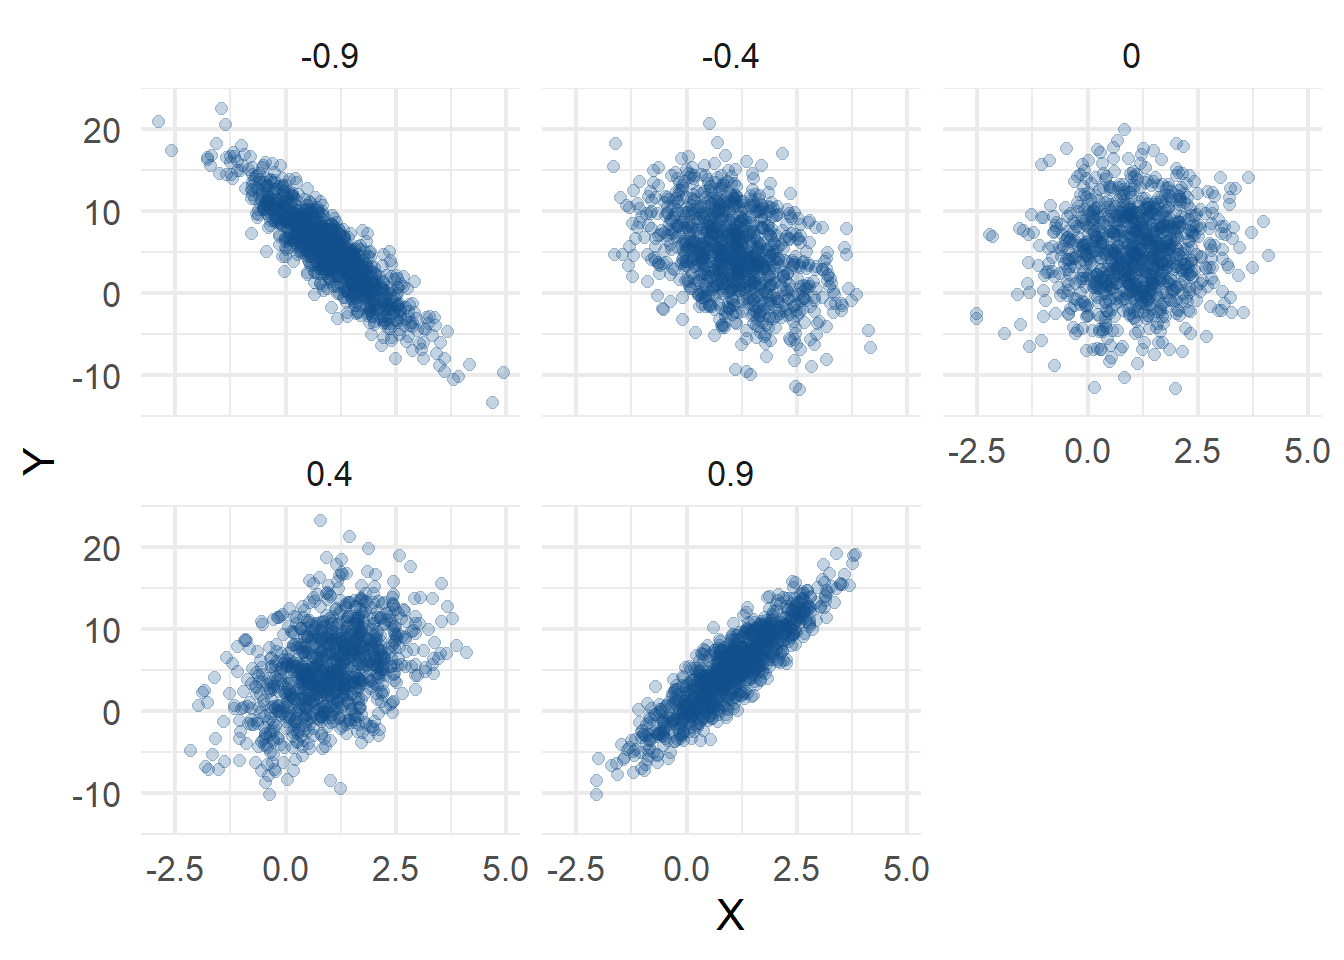
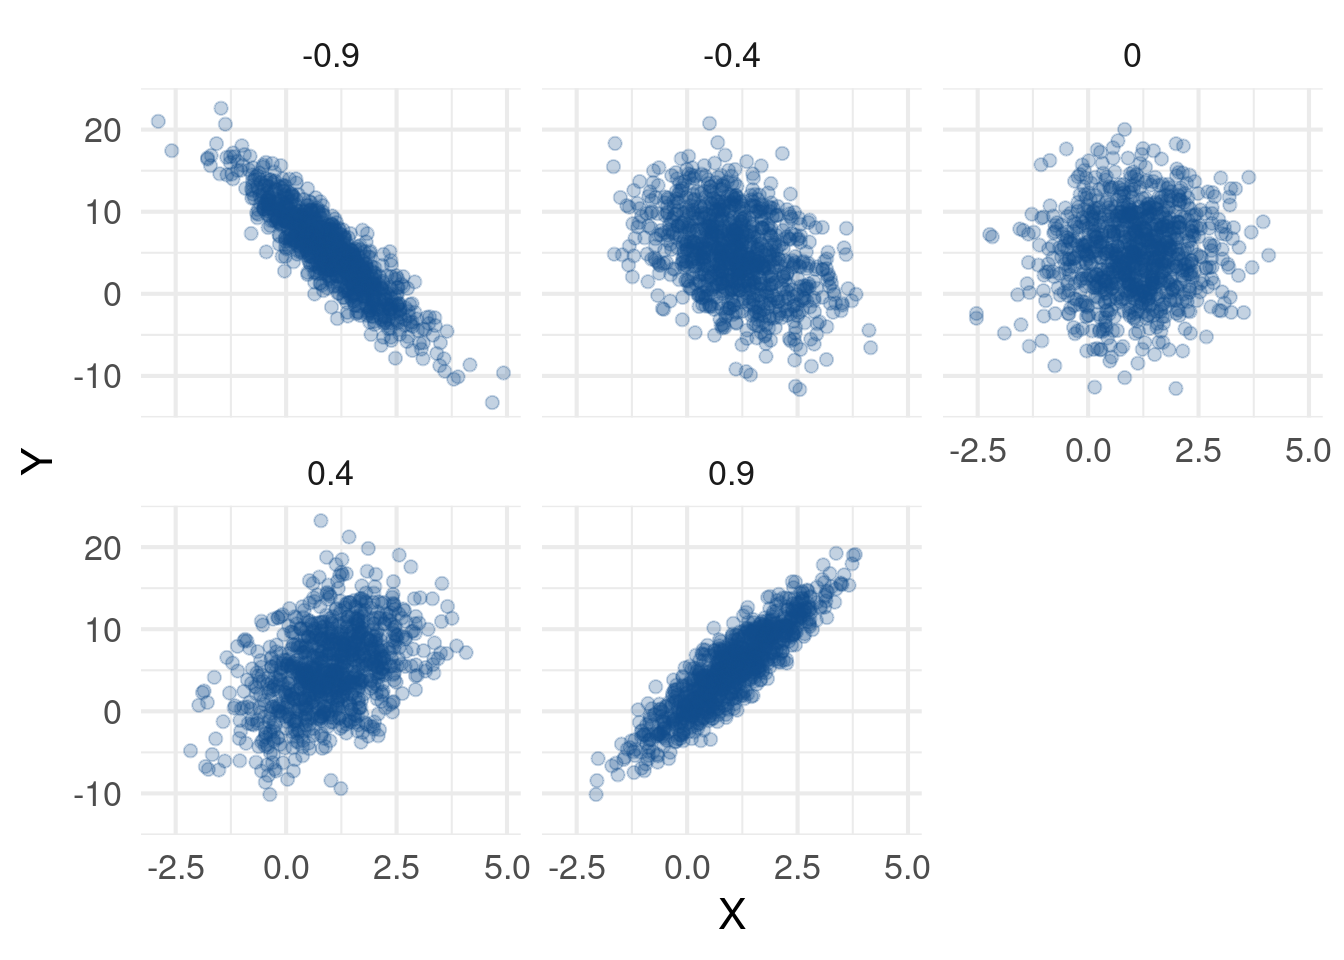
Update Lsg Blatt 8

diff --git a/wr/lsg/08_R.html b/wr/lsg/08_R.html
@@ -2,7 +2,7 @@
 <html xmlns="http://www.w3.org/1999/xhtml" lang="de" xml:lang="de"><head>
 
 <meta charset="utf-8">
-<meta name="generator" content="quarto-1.2.253">
+<meta name="generator" content="quarto-1.2.313">
 
 <meta name="viewport" content="width=device-width, initial-scale=1.0, user-scalable=yes">
 
@@ -139,7 +139,7 @@ code span.wa { color: #60a0b0; font-weight: bold; font-style: italic; } /* Warni
     <div>
     <div class="quarto-title-meta-heading">Veröffentlichungsdatum</div>
     <div class="quarto-title-meta-contents">
-      <p class="date">8. Dezember 2022</p>
+      <p class="date">4. Februar 2023</p>
     </div>
   </div>
   
@@ -157,30 +157,37 @@ code span.wa { color: #60a0b0; font-weight: bold; font-style: italic; } /* Warni
 \end{pmatrix}
 \]</span> ausgibt.</p>
 <div class="cell">
-
+<div class="sourceCode cell-code" id="cb1"><pre class="sourceCode r code-with-copy"><code class="sourceCode r"><span id="cb1-1"><a href="#cb1-1" aria-hidden="true" tabindex="-1"></a>my_cov_matrix <span class="ot">&lt;-</span> <span class="cf">function</span>(sigma_1, sigma_2, rho) {</span>
+<span id="cb1-2"><a href="#cb1-2" aria-hidden="true" tabindex="-1"></a>  entries <span class="ot">&lt;-</span> <span class="fu">c</span>(</span>
+<span id="cb1-3"><a href="#cb1-3" aria-hidden="true" tabindex="-1"></a>    sigma_1<span class="sc">^</span><span class="dv">2</span>, rho <span class="sc">*</span> sigma_1 <span class="sc">*</span> sigma_2,</span>
+<span id="cb1-4"><a href="#cb1-4" aria-hidden="true" tabindex="-1"></a>    rho <span class="sc">*</span> sigma_1 <span class="sc">*</span> sigma_2, sigma_2<span class="sc">^</span><span class="dv">2</span></span>
+<span id="cb1-5"><a href="#cb1-5" aria-hidden="true" tabindex="-1"></a>  )</span>
+<span id="cb1-6"><a href="#cb1-6" aria-hidden="true" tabindex="-1"></a>  <span class="fu">matrix</span>(entries, <span class="at">nrow =</span> <span class="dv">2</span>)</span>
+<span id="cb1-7"><a href="#cb1-7" aria-hidden="true" tabindex="-1"></a>}</span>
+<span id="cb1-8"><a href="#cb1-8" aria-hidden="true" tabindex="-1"></a><span class="fu">set.seed</span>(<span class="dv">35434</span>)</span></code><button title="In die Zwischenablage kopieren" class="code-copy-button"><i class="bi"></i></button></pre></div>
 </div>
 <section id="zugriff-auf-matrixkomponenten" class="level2">
 <h2 class="anchored" data-anchor-id="zugriff-auf-matrixkomponenten">Zugriff auf Matrixkomponenten</h2>
 <p>Wir können auf Einträge in Matrizen durch Angabe des Zeilen- und Spaltenindex zugreifen.</p>
 <div class="cell">
-<div class="sourceCode cell-code" id="cb1"><pre class="sourceCode r code-with-copy"><code class="sourceCode r"><span id="cb1-1"><a href="#cb1-1" aria-hidden="true" tabindex="-1"></a>K <span class="ot">&lt;-</span> <span class="fu">my_cov_matrix</span>(<span class="dv">1</span>, <span class="dv">2</span>, <span class="fl">0.2</span>)</span>
-<span id="cb1-2"><a href="#cb1-2" aria-hidden="true" tabindex="-1"></a>K</span></code><button title="In die Zwischenablage kopieren" class="code-copy-button"><i class="bi"></i></button></pre></div>
+<div class="sourceCode cell-code" id="cb2"><pre class="sourceCode r code-with-copy"><code class="sourceCode r"><span id="cb2-1"><a href="#cb2-1" aria-hidden="true" tabindex="-1"></a>K <span class="ot">&lt;-</span> <span class="fu">my_cov_matrix</span>(<span class="dv">1</span>, <span class="dv">2</span>, <span class="fl">0.2</span>)</span>
+<span id="cb2-2"><a href="#cb2-2" aria-hidden="true" tabindex="-1"></a>K</span></code><button title="In die Zwischenablage kopieren" class="code-copy-button"><i class="bi"></i></button></pre></div>
 <div class="cell-output cell-output-stdout">
 <pre><code>     [,1] [,2]
 [1,]  1.0  0.4
 [2,]  0.4  4.0</code></pre>
 </div>
-<div class="sourceCode cell-code" id="cb3"><pre class="sourceCode r code-with-copy"><code class="sourceCode r"><span id="cb3-1"><a href="#cb3-1" aria-hidden="true" tabindex="-1"></a>K[<span class="dv">1</span>, <span class="dv">2</span>]</span></code><button title="In die Zwischenablage kopieren" class="code-copy-button"><i class="bi"></i></button></pre></div>
+<div class="sourceCode cell-code" id="cb4"><pre class="sourceCode r code-with-copy"><code class="sourceCode r"><span id="cb4-1"><a href="#cb4-1" aria-hidden="true" tabindex="-1"></a>K[<span class="dv">1</span>, <span class="dv">2</span>]</span></code><button title="In die Zwischenablage kopieren" class="code-copy-button"><i class="bi"></i></button></pre></div>
 <div class="cell-output cell-output-stdout">
 <pre><code>[1] 0.4</code></pre>
 </div>
 </div>
 <p>Wir können aber auch auf ganze Zeilen und Spalten extrahieren, indem wir den Zeilen- oder Spaltenindex <strong>nicht</strong> angeben.</p>
 <div class="cell">
-<div class="sourceCode cell-code" id="cb5"><pre class="sourceCode r code-with-copy"><code class="sourceCode r"><span id="cb5-1"><a href="#cb5-1" aria-hidden="true" tabindex="-1"></a>K[, <span class="dv">1</span>]</span>
-<span id="cb5-2"><a href="#cb5-2" aria-hidden="true" tabindex="-1"></a><span class="do">## [1] 1.0 0.4</span></span>
-<span id="cb5-3"><a href="#cb5-3" aria-hidden="true" tabindex="-1"></a>K[<span class="dv">2</span>, ]</span>
-<span id="cb5-4"><a href="#cb5-4" aria-hidden="true" tabindex="-1"></a><span class="do">## [1] 0.4 4.0</span></span></code><button title="In die Zwischenablage kopieren" class="code-copy-button"><i class="bi"></i></button></pre></div>
+<div class="sourceCode cell-code" id="cb6"><pre class="sourceCode r code-with-copy"><code class="sourceCode r"><span id="cb6-1"><a href="#cb6-1" aria-hidden="true" tabindex="-1"></a>K[, <span class="dv">1</span>]</span>
+<span id="cb6-2"><a href="#cb6-2" aria-hidden="true" tabindex="-1"></a><span class="do">## [1] 1.0 0.4</span></span>
+<span id="cb6-3"><a href="#cb6-3" aria-hidden="true" tabindex="-1"></a>K[<span class="dv">2</span>, ]</span>
+<span id="cb6-4"><a href="#cb6-4" aria-hidden="true" tabindex="-1"></a><span class="do">## [1] 0.4 4.0</span></span></code><button title="In die Zwischenablage kopieren" class="code-copy-button"><i class="bi"></i></button></pre></div>
 </div>
 <p>Dieses Wissen werden wir im weiteren Verlauf dieser Aufgaben gebrauchen.</p>
 </section>
@@ -188,11 +195,11 @@ code span.wa { color: #60a0b0; font-weight: bold; font-style: italic; } /* Warni
 <h2 class="anchored" data-anchor-id="simulation-von-multivariaten-normalverteilungen">Simulation von multivariaten Normalverteilungen</h2>
 <p>Mithilfe der <code>mvrnorm()</code> aus dem <code>MASS</code> Paket, können wir nun Realisierungen von multivariaten Normalverteilungen simulieren. Diese Funktion funktioniert folgendermaßen:</p>
 <div class="cell">
-<div class="sourceCode cell-code" id="cb6"><pre class="sourceCode r code-with-copy"><code class="sourceCode r"><span id="cb6-1"><a href="#cb6-1" aria-hidden="true" tabindex="-1"></a>MASS<span class="sc">::</span><span class="fu">mvrnorm</span>(</span>
-<span id="cb6-2"><a href="#cb6-2" aria-hidden="true" tabindex="-1"></a>  <span class="at">n =</span> <span class="dv">10</span>, <span class="co"># Anzahl der Realisierungen,</span></span>
-<span id="cb6-3"><a href="#cb6-3" aria-hidden="true" tabindex="-1"></a>  <span class="at">mu =</span> <span class="fu">c</span>(<span class="dv">1</span>, <span class="dv">5</span>), <span class="co"># Parametervektor mu,</span></span>
-<span id="cb6-4"><a href="#cb6-4" aria-hidden="true" tabindex="-1"></a>  <span class="at">Sigma =</span> <span class="fu">my_cov_matrix</span>(<span class="dv">1</span>, <span class="dv">3</span>, <span class="fl">0.2</span>) <span class="co"># Parametermatrix Sigma</span></span>
-<span id="cb6-5"><a href="#cb6-5" aria-hidden="true" tabindex="-1"></a>)</span></code><button title="In die Zwischenablage kopieren" class="code-copy-button"><i class="bi"></i></button></pre></div>
+<div class="sourceCode cell-code" id="cb7"><pre class="sourceCode r code-with-copy"><code class="sourceCode r"><span id="cb7-1"><a href="#cb7-1" aria-hidden="true" tabindex="-1"></a>MASS<span class="sc">::</span><span class="fu">mvrnorm</span>(</span>
+<span id="cb7-2"><a href="#cb7-2" aria-hidden="true" tabindex="-1"></a>  <span class="at">n =</span> <span class="dv">10</span>, <span class="co"># Anzahl der Realisierungen,</span></span>
+<span id="cb7-3"><a href="#cb7-3" aria-hidden="true" tabindex="-1"></a>  <span class="at">mu =</span> <span class="fu">c</span>(<span class="dv">1</span>, <span class="dv">5</span>), <span class="co"># Parametervektor mu,</span></span>
+<span id="cb7-4"><a href="#cb7-4" aria-hidden="true" tabindex="-1"></a>  <span class="at">Sigma =</span> <span class="fu">my_cov_matrix</span>(<span class="dv">1</span>, <span class="dv">3</span>, <span class="fl">0.2</span>) <span class="co"># Parametermatrix Sigma</span></span>
+<span id="cb7-5"><a href="#cb7-5" aria-hidden="true" tabindex="-1"></a>)</span></code><button title="In die Zwischenablage kopieren" class="code-copy-button"><i class="bi"></i></button></pre></div>
 <div class="cell-output cell-output-stdout">
 <pre><code>             [,1]      [,2]
  [1,]  2.97397914  5.552607
@@ -215,12 +222,24 @@ code span.wa { color: #60a0b0; font-weight: bold; font-style: italic; } /* Warni
 \]</span></p>
 <p><span class="math inline">\(n\)</span> Realisierungen der entsprechenden multivariaten Normalverteilung simuliert und diese in einem tibble mit den Spaltennamen <code>X</code> und <code>Y</code> abspeichert. Außerdem soll dieser tibble noch eine dritte Spalte <code>rho</code> enthalten, in der alle Einträge mit <code>rho</code> befüllt sind</p>
 <div class="cell">
-
+<div class="sourceCode cell-code" id="cb9"><pre class="sourceCode r code-with-copy"><code class="sourceCode r"><span id="cb9-1"><a href="#cb9-1" aria-hidden="true" tabindex="-1"></a><span class="fu">library</span>(tidyverse)</span>
+<span id="cb9-2"><a href="#cb9-2" aria-hidden="true" tabindex="-1"></a>my_mvrnorm <span class="ot">&lt;-</span> <span class="cf">function</span>(n, mu_1, mu_2, sigma_1, sigma_2, rho) {</span>
+<span id="cb9-3"><a href="#cb9-3" aria-hidden="true" tabindex="-1"></a>  realisations <span class="ot">&lt;-</span> MASS<span class="sc">::</span><span class="fu">mvrnorm</span>(</span>
+<span id="cb9-4"><a href="#cb9-4" aria-hidden="true" tabindex="-1"></a>    <span class="at">n =</span> n, </span>
+<span id="cb9-5"><a href="#cb9-5" aria-hidden="true" tabindex="-1"></a>    <span class="at">mu =</span> <span class="fu">c</span>(mu_1, mu_2),</span>
+<span id="cb9-6"><a href="#cb9-6" aria-hidden="true" tabindex="-1"></a>    <span class="at">Sigma =</span> <span class="fu">my_cov_matrix</span>(sigma_1, sigma_2, rho) </span>
+<span id="cb9-7"><a href="#cb9-7" aria-hidden="true" tabindex="-1"></a>  )</span>
+<span id="cb9-8"><a href="#cb9-8" aria-hidden="true" tabindex="-1"></a>  <span class="fu">tibble</span>(</span>
+<span id="cb9-9"><a href="#cb9-9" aria-hidden="true" tabindex="-1"></a>    <span class="at">X =</span> realisations[, <span class="dv">1</span>], </span>
+<span id="cb9-10"><a href="#cb9-10" aria-hidden="true" tabindex="-1"></a>    <span class="at">Y =</span> realisations[, <span class="dv">2</span>],</span>
+<span id="cb9-11"><a href="#cb9-11" aria-hidden="true" tabindex="-1"></a>    <span class="at">rho =</span> rho</span>
+<span id="cb9-12"><a href="#cb9-12" aria-hidden="true" tabindex="-1"></a>  )</span>
+<span id="cb9-13"><a href="#cb9-13" aria-hidden="true" tabindex="-1"></a>}</span></code><button title="In die Zwischenablage kopieren" class="code-copy-button"><i class="bi"></i></button></pre></div>
 </div>
 <div class="cell">
-<div class="sourceCode cell-code" id="cb8"><pre class="sourceCode r code-with-copy"><code class="sourceCode r"><span id="cb8-1"><a href="#cb8-1" aria-hidden="true" tabindex="-1"></a><span class="fu">my_mvrnorm</span>(<span class="dv">10</span>, <span class="dv">1</span>, <span class="dv">5</span>, <span class="dv">1</span>, <span class="fl">0.5</span>, <span class="dv">0</span>)</span></code><button title="In die Zwischenablage kopieren" class="code-copy-button"><i class="bi"></i></button></pre></div>
+<div class="sourceCode cell-code" id="cb10"><pre class="sourceCode r code-with-copy"><code class="sourceCode r"><span id="cb10-1"><a href="#cb10-1" aria-hidden="true" tabindex="-1"></a><span class="fu">my_mvrnorm</span>(<span class="dv">10</span>, <span class="dv">1</span>, <span class="dv">5</span>, <span class="dv">1</span>, <span class="fl">0.5</span>, <span class="dv">0</span>)</span></code><button title="In die Zwischenablage kopieren" class="code-copy-button"><i class="bi"></i></button></pre></div>
 <div class="cell-output cell-output-stdout">
-<pre><code># A tibble: 10 x 3
+<pre><code># A tibble: 10 × 3
          X     Y   rho
      &lt;dbl&gt; &lt;dbl&gt; &lt;dbl&gt;
  1 0.00655  4.75     0
@@ -240,6 +259,33 @@ code span.wa { color: #60a0b0; font-weight: bold; font-style: italic; } /* Warni
 <h2 class="anchored" data-anchor-id="untersuchen-von-verschiedenen-rhos">Untersuchen von verschiedenen Rhos</h2>
 <p>Nimm nun an, dass <span class="math inline">\(\mu = (1, 5)\)</span>, <span class="math inline">\(\sigma_1 = 1\)</span> und <span class="math inline">\(\sigma_2 = 5\)</span>. Nutze die Funktion <code>my_mvrnorm()</code>, um jeweils <span class="math inline">\(n = 1000\)</span> multivariate Normalverteilungen mit Parametern <span class="math inline">\(\rho \in \{-0.9, -0.4, 0, 0.4, 0.9\}\)</span> zu simulieren und in <strong>einem</strong> tibble zu sammeln. Die Funktion <code>bind_rows()</code> könnte dir dabei helfen. Erstelle anschließend den folgenden Plot, indem du jeweils die erste und zweite Koordinate deiner Zufallsvektoren auf die x- und y-Kooordinate in der Grafik mappst.</p>
 <div class="cell">
+<div class="sourceCode cell-code" id="cb12"><pre class="sourceCode r code-with-copy"><code class="sourceCode r"><span id="cb12-1"><a href="#cb12-1" aria-hidden="true" tabindex="-1"></a>n <span class="ot">&lt;-</span> <span class="dv">1000</span></span>
+<span id="cb12-2"><a href="#cb12-2" aria-hidden="true" tabindex="-1"></a>mu_1 <span class="ot">&lt;-</span> <span class="dv">1</span></span>
+<span id="cb12-3"><a href="#cb12-3" aria-hidden="true" tabindex="-1"></a>mu_2 <span class="ot">&lt;-</span> <span class="dv">5</span></span>
+<span id="cb12-4"><a href="#cb12-4" aria-hidden="true" tabindex="-1"></a>sigma_1 <span class="ot">&lt;-</span> <span class="dv">1</span></span>
+<span id="cb12-5"><a href="#cb12-5" aria-hidden="true" tabindex="-1"></a>sigma_2 <span class="ot">&lt;-</span> <span class="dv">5</span></span>
+<span id="cb12-6"><a href="#cb12-6" aria-hidden="true" tabindex="-1"></a>simus <span class="ot">&lt;-</span> <span class="fu">my_mvrnorm</span>(</span>
+<span id="cb12-7"><a href="#cb12-7" aria-hidden="true" tabindex="-1"></a>  n, mu_1, mu_2, sigma_1, sigma_2, <span class="sc">-</span><span class="fl">0.9</span></span>
+<span id="cb12-8"><a href="#cb12-8" aria-hidden="true" tabindex="-1"></a>)</span>
+<span id="cb12-9"><a href="#cb12-9" aria-hidden="true" tabindex="-1"></a></span>
+<span id="cb12-10"><a href="#cb12-10" aria-hidden="true" tabindex="-1"></a><span class="cf">for</span> (rho <span class="cf">in</span> <span class="fu">c</span>(<span class="sc">-</span><span class="fl">0.4</span>, <span class="dv">0</span>, <span class="fl">0.4</span>, <span class="fl">0.9</span>)) {</span>
+<span id="cb12-11"><a href="#cb12-11" aria-hidden="true" tabindex="-1"></a>  simus <span class="ot">&lt;-</span> <span class="fu">bind_rows</span>(</span>
+<span id="cb12-12"><a href="#cb12-12" aria-hidden="true" tabindex="-1"></a>    simus, </span>
+<span id="cb12-13"><a href="#cb12-13" aria-hidden="true" tabindex="-1"></a>    <span class="fu">my_mvrnorm</span>(</span>
+<span id="cb12-14"><a href="#cb12-14" aria-hidden="true" tabindex="-1"></a>      n, mu_1, mu_2, sigma_1, sigma_2, rho</span>
+<span id="cb12-15"><a href="#cb12-15" aria-hidden="true" tabindex="-1"></a>    )</span>
+<span id="cb12-16"><a href="#cb12-16" aria-hidden="true" tabindex="-1"></a>  )</span>
+<span id="cb12-17"><a href="#cb12-17" aria-hidden="true" tabindex="-1"></a>}</span>
+<span id="cb12-18"><a href="#cb12-18" aria-hidden="true" tabindex="-1"></a></span>
+<span id="cb12-19"><a href="#cb12-19" aria-hidden="true" tabindex="-1"></a></span>
+<span id="cb12-20"><a href="#cb12-20" aria-hidden="true" tabindex="-1"></a>simus <span class="sc">|&gt;</span> </span>
+<span id="cb12-21"><a href="#cb12-21" aria-hidden="true" tabindex="-1"></a>  <span class="fu">ggplot</span>(<span class="fu">aes</span>(X, Y)) <span class="sc">+</span></span>
+<span id="cb12-22"><a href="#cb12-22" aria-hidden="true" tabindex="-1"></a>  <span class="fu">geom_point</span>(</span>
+<span id="cb12-23"><a href="#cb12-23" aria-hidden="true" tabindex="-1"></a>    <span class="at">alpha =</span> <span class="fl">0.25</span>, <span class="at">size =</span> <span class="dv">2</span>, <span class="at">col =</span> <span class="st">'dodgerblue4'</span></span>
+<span id="cb12-24"><a href="#cb12-24" aria-hidden="true" tabindex="-1"></a>  ) <span class="sc">+</span></span>
+<span id="cb12-25"><a href="#cb12-25" aria-hidden="true" tabindex="-1"></a>  <span class="fu">facet_wrap</span>(<span class="fu">vars</span>(rho)) <span class="sc">+</span></span>
+<span id="cb12-26"><a href="#cb12-26" aria-hidden="true" tabindex="-1"></a>  <span class="fu">theme_minimal</span>(<span class="at">base_size =</span> <span class="dv">16</span>) <span class="sc">+</span></span>
+<span id="cb12-27"><a href="#cb12-27" aria-hidden="true" tabindex="-1"></a>  <span class="fu">labs</span>(<span class="st">'Zweidimensionale Normalverteilung für verschiedene Rhos'</span>)</span></code><button title="In die Zwischenablage kopieren" class="code-copy-button"><i class="bi"></i></button></pre></div>
 <div class="cell-output-display">
 <p><img src="09_Uebungsblatt8_files/figure-html/unnamed-chunk-7-1.png" class="img-fluid" width="672"></p>
 </div>
@@ -249,9 +295,39 @@ code span.wa { color: #60a0b0; font-weight: bold; font-style: italic; } /* Warni
 <h2 class="anchored" data-anchor-id="untersuchung-der-randverteilung">Untersuchung der Randverteilung</h2>
 <p>Betrachte nun die Randverteilungen deiner Zufallsvektoren und vergleiche sie mit den entsprechenden Normalverteilungen</p>
 <div class="cell">
+<div class="sourceCode cell-code" id="cb13"><pre class="sourceCode r code-with-copy"><code class="sourceCode r"><span id="cb13-1"><a href="#cb13-1" aria-hidden="true" tabindex="-1"></a>simus <span class="sc">|&gt;</span> </span>
+<span id="cb13-2"><a href="#cb13-2" aria-hidden="true" tabindex="-1"></a>  <span class="fu">ggplot</span>(<span class="fu">aes</span>(<span class="at">x =</span> X)) <span class="sc">+</span></span>
+<span id="cb13-3"><a href="#cb13-3" aria-hidden="true" tabindex="-1"></a>  <span class="fu">geom_density</span>(<span class="at">linewidth =</span> <span class="dv">1</span>) <span class="sc">+</span></span>
+<span id="cb13-4"><a href="#cb13-4" aria-hidden="true" tabindex="-1"></a>  <span class="fu">geom_function</span>(</span>
+<span id="cb13-5"><a href="#cb13-5" aria-hidden="true" tabindex="-1"></a>    <span class="at">fun =</span> dnorm,</span>
+<span id="cb13-6"><a href="#cb13-6" aria-hidden="true" tabindex="-1"></a>    <span class="at">args =</span> <span class="fu">list</span>(<span class="at">mean =</span> mu_1, <span class="at">sd =</span> sigma_1),</span>
+<span id="cb13-7"><a href="#cb13-7" aria-hidden="true" tabindex="-1"></a>    <span class="at">col =</span> <span class="st">'red'</span>,</span>
+<span id="cb13-8"><a href="#cb13-8" aria-hidden="true" tabindex="-1"></a>    <span class="at">alpha =</span> <span class="fl">0.5</span>,</span>
+<span id="cb13-9"><a href="#cb13-9" aria-hidden="true" tabindex="-1"></a>    <span class="at">linewidth =</span> <span class="dv">1</span></span>
+<span id="cb13-10"><a href="#cb13-10" aria-hidden="true" tabindex="-1"></a>  ) <span class="sc">+</span></span>
+<span id="cb13-11"><a href="#cb13-11" aria-hidden="true" tabindex="-1"></a>  <span class="fu">facet_wrap</span>(<span class="fu">vars</span>(rho)) <span class="sc">+</span></span>
+<span id="cb13-12"><a href="#cb13-12" aria-hidden="true" tabindex="-1"></a>  <span class="fu">labs</span>(</span>
+<span id="cb13-13"><a href="#cb13-13" aria-hidden="true" tabindex="-1"></a>    <span class="at">y =</span> <span class="st">'Dichtefunktion'</span>,</span>
+<span id="cb13-14"><a href="#cb13-14" aria-hidden="true" tabindex="-1"></a>    <span class="at">title =</span> <span class="st">'Geschätzte Dichte (schwarz), Echte Dichte (rot)'</span></span>
+<span id="cb13-15"><a href="#cb13-15" aria-hidden="true" tabindex="-1"></a>  )</span></code><button title="In die Zwischenablage kopieren" class="code-copy-button"><i class="bi"></i></button></pre></div>
 <div class="cell-output-display">
 <p><img src="09_Uebungsblatt8_files/figure-html/unnamed-chunk-8-1.png" class="img-fluid" width="672"></p>
 </div>
+<div class="sourceCode cell-code" id="cb14"><pre class="sourceCode r code-with-copy"><code class="sourceCode r"><span id="cb14-1"><a href="#cb14-1" aria-hidden="true" tabindex="-1"></a>simus <span class="sc">|&gt;</span> </span>
+<span id="cb14-2"><a href="#cb14-2" aria-hidden="true" tabindex="-1"></a>  <span class="fu">ggplot</span>(<span class="fu">aes</span>(<span class="at">x =</span> Y)) <span class="sc">+</span></span>
+<span id="cb14-3"><a href="#cb14-3" aria-hidden="true" tabindex="-1"></a>  <span class="fu">geom_density</span>(<span class="at">linewidth =</span> <span class="dv">1</span>) <span class="sc">+</span></span>
+<span id="cb14-4"><a href="#cb14-4" aria-hidden="true" tabindex="-1"></a>  <span class="fu">geom_function</span>(</span>
+<span id="cb14-5"><a href="#cb14-5" aria-hidden="true" tabindex="-1"></a>    <span class="at">fun =</span> dnorm,</span>
+<span id="cb14-6"><a href="#cb14-6" aria-hidden="true" tabindex="-1"></a>    <span class="at">args =</span> <span class="fu">list</span>(<span class="at">mean =</span> mu_2, <span class="at">sd =</span> sigma_2),</span>
+<span id="cb14-7"><a href="#cb14-7" aria-hidden="true" tabindex="-1"></a>    <span class="at">col =</span> <span class="st">'red'</span>,</span>
+<span id="cb14-8"><a href="#cb14-8" aria-hidden="true" tabindex="-1"></a>    <span class="at">alpha =</span> <span class="fl">0.5</span>,</span>
+<span id="cb14-9"><a href="#cb14-9" aria-hidden="true" tabindex="-1"></a>    <span class="at">linewidth =</span> <span class="dv">1</span></span>
+<span id="cb14-10"><a href="#cb14-10" aria-hidden="true" tabindex="-1"></a>  ) <span class="sc">+</span></span>
+<span id="cb14-11"><a href="#cb14-11" aria-hidden="true" tabindex="-1"></a>  <span class="fu">facet_wrap</span>(<span class="fu">vars</span>(rho)) <span class="sc">+</span></span>
+<span id="cb14-12"><a href="#cb14-12" aria-hidden="true" tabindex="-1"></a>  <span class="fu">labs</span>(</span>
+<span id="cb14-13"><a href="#cb14-13" aria-hidden="true" tabindex="-1"></a>    <span class="at">y =</span> <span class="st">'Dichtefunktion'</span>,</span>
+<span id="cb14-14"><a href="#cb14-14" aria-hidden="true" tabindex="-1"></a>    <span class="at">title =</span> <span class="st">'Geschätzte Dichte (schwarz), Echte Dichte (rot)'</span></span>
+<span id="cb14-15"><a href="#cb14-15" aria-hidden="true" tabindex="-1"></a>  )</span></code><button title="In die Zwischenablage kopieren" class="code-copy-button"><i class="bi"></i></button></pre></div>
 <div class="cell-output-display">
 <p><img src="09_Uebungsblatt8_files/figure-html/unnamed-chunk-8-2.png" class="img-fluid" width="672"></p>
 </div>
